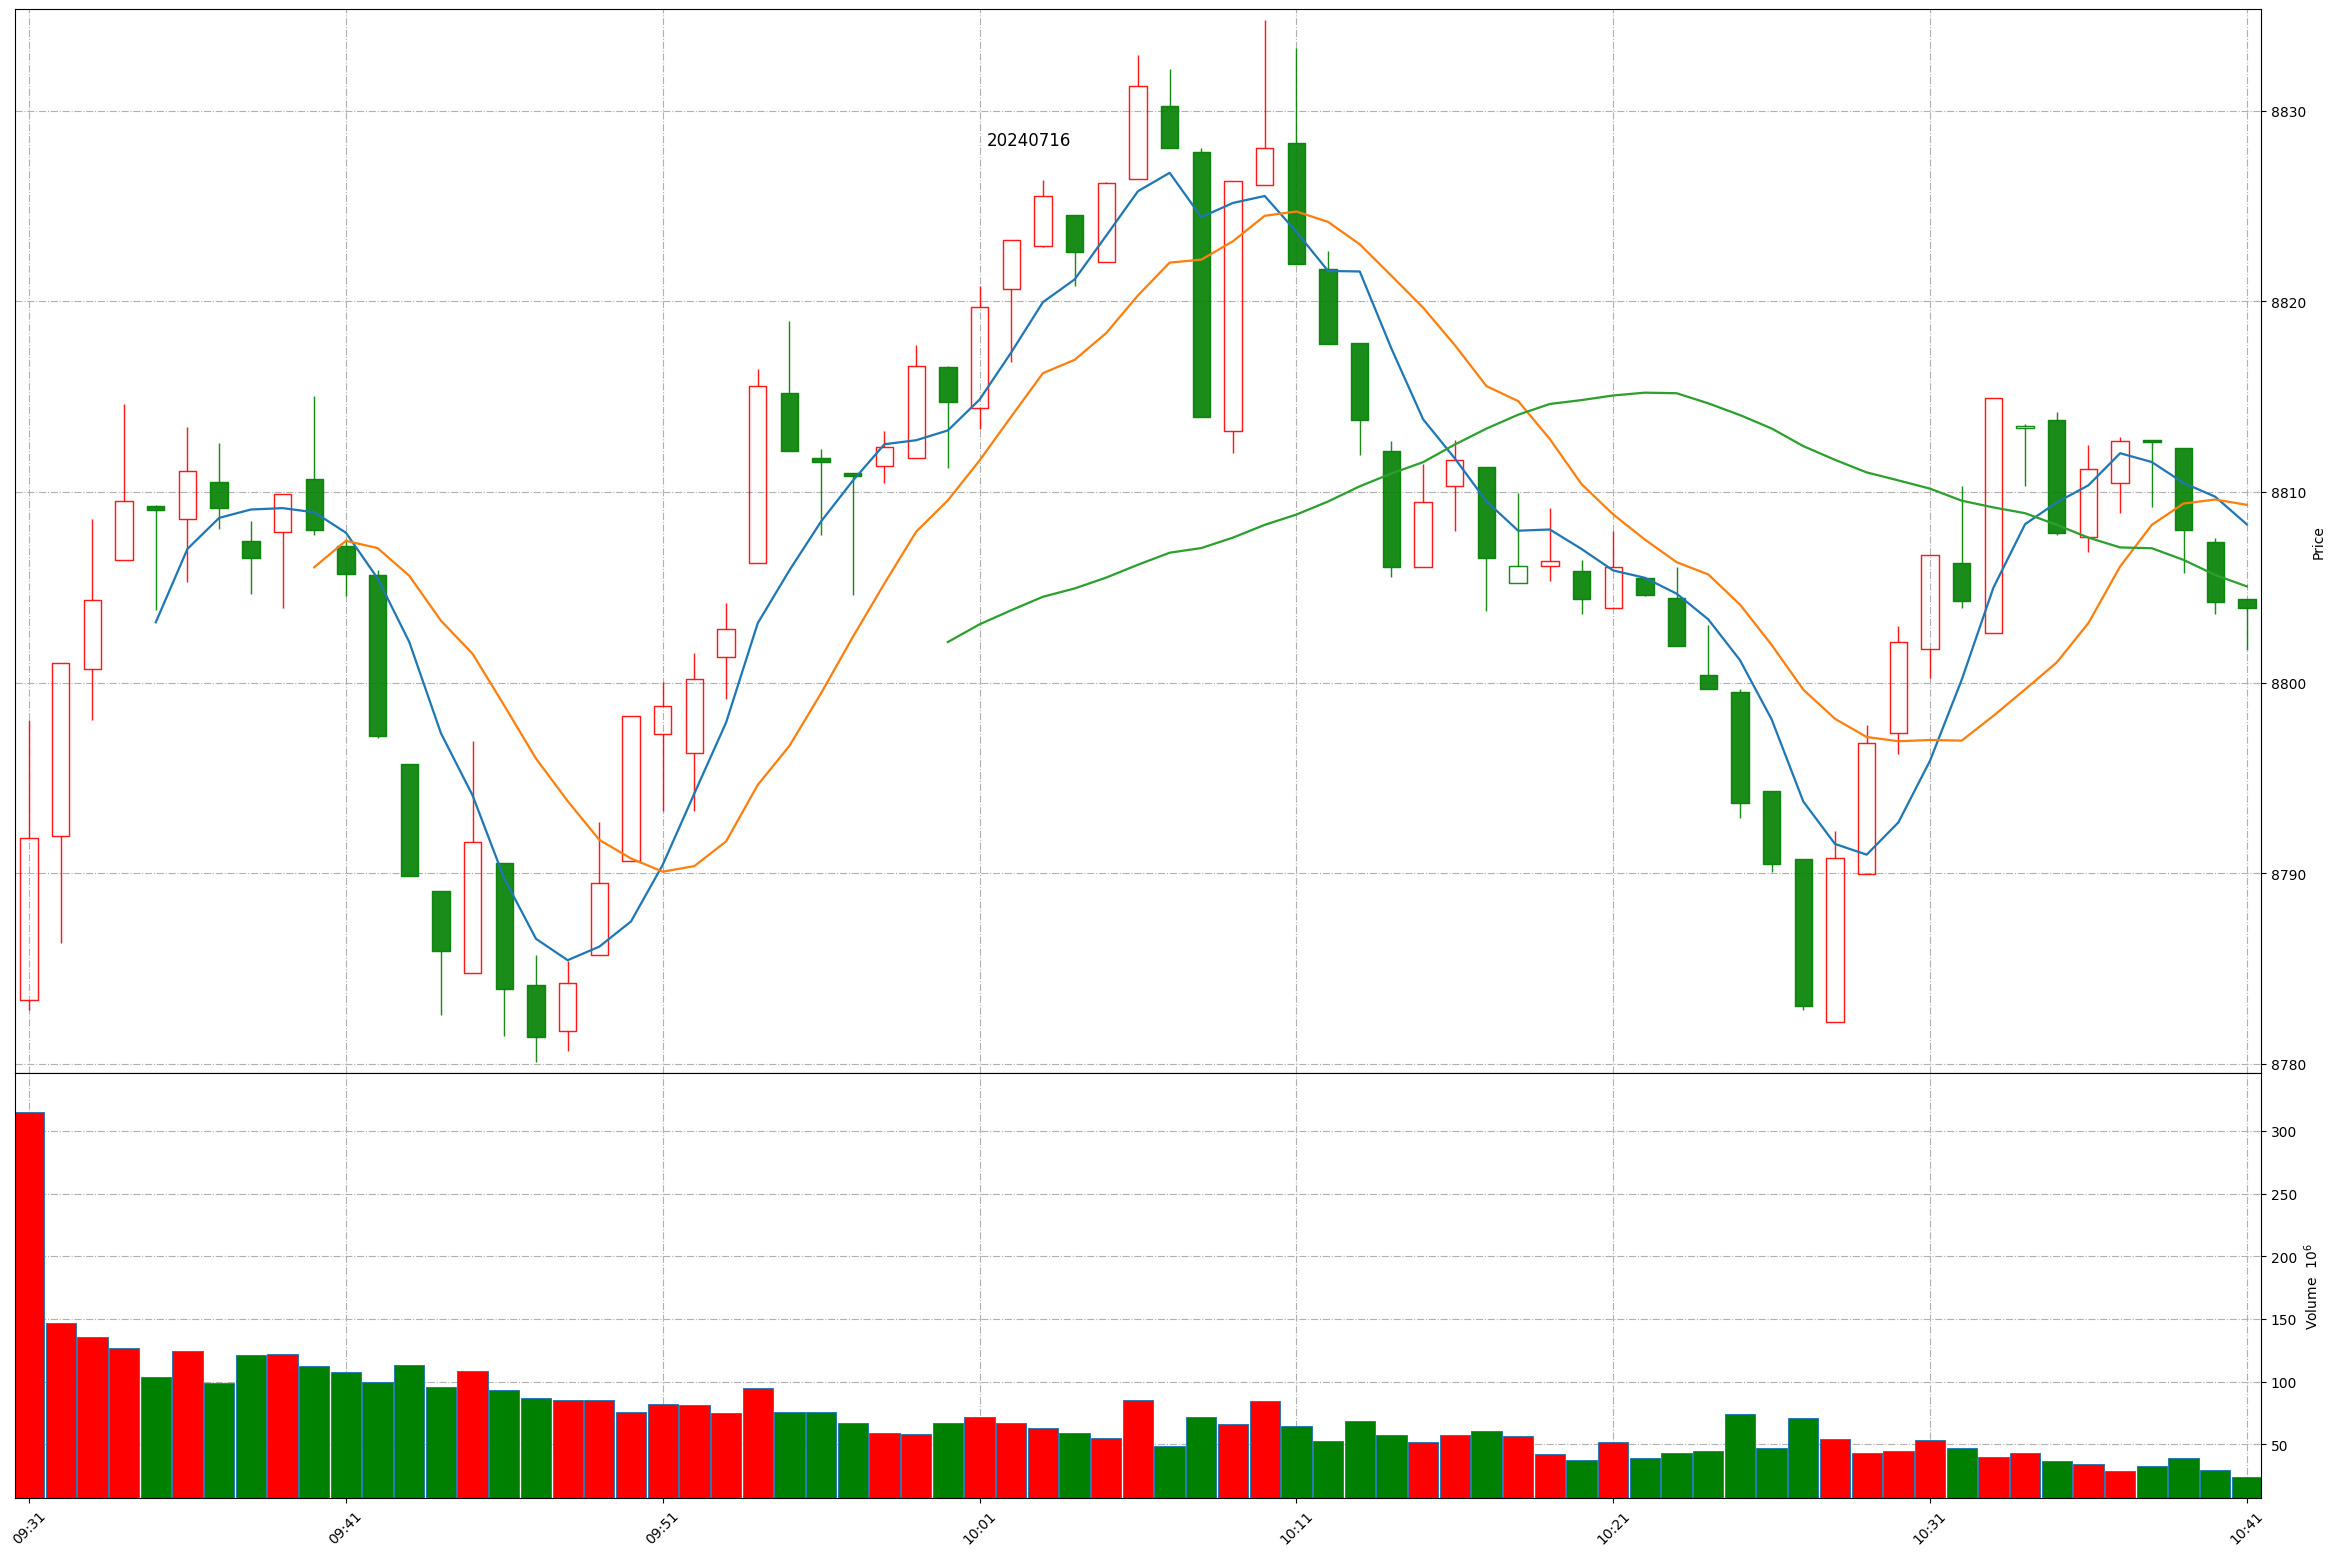
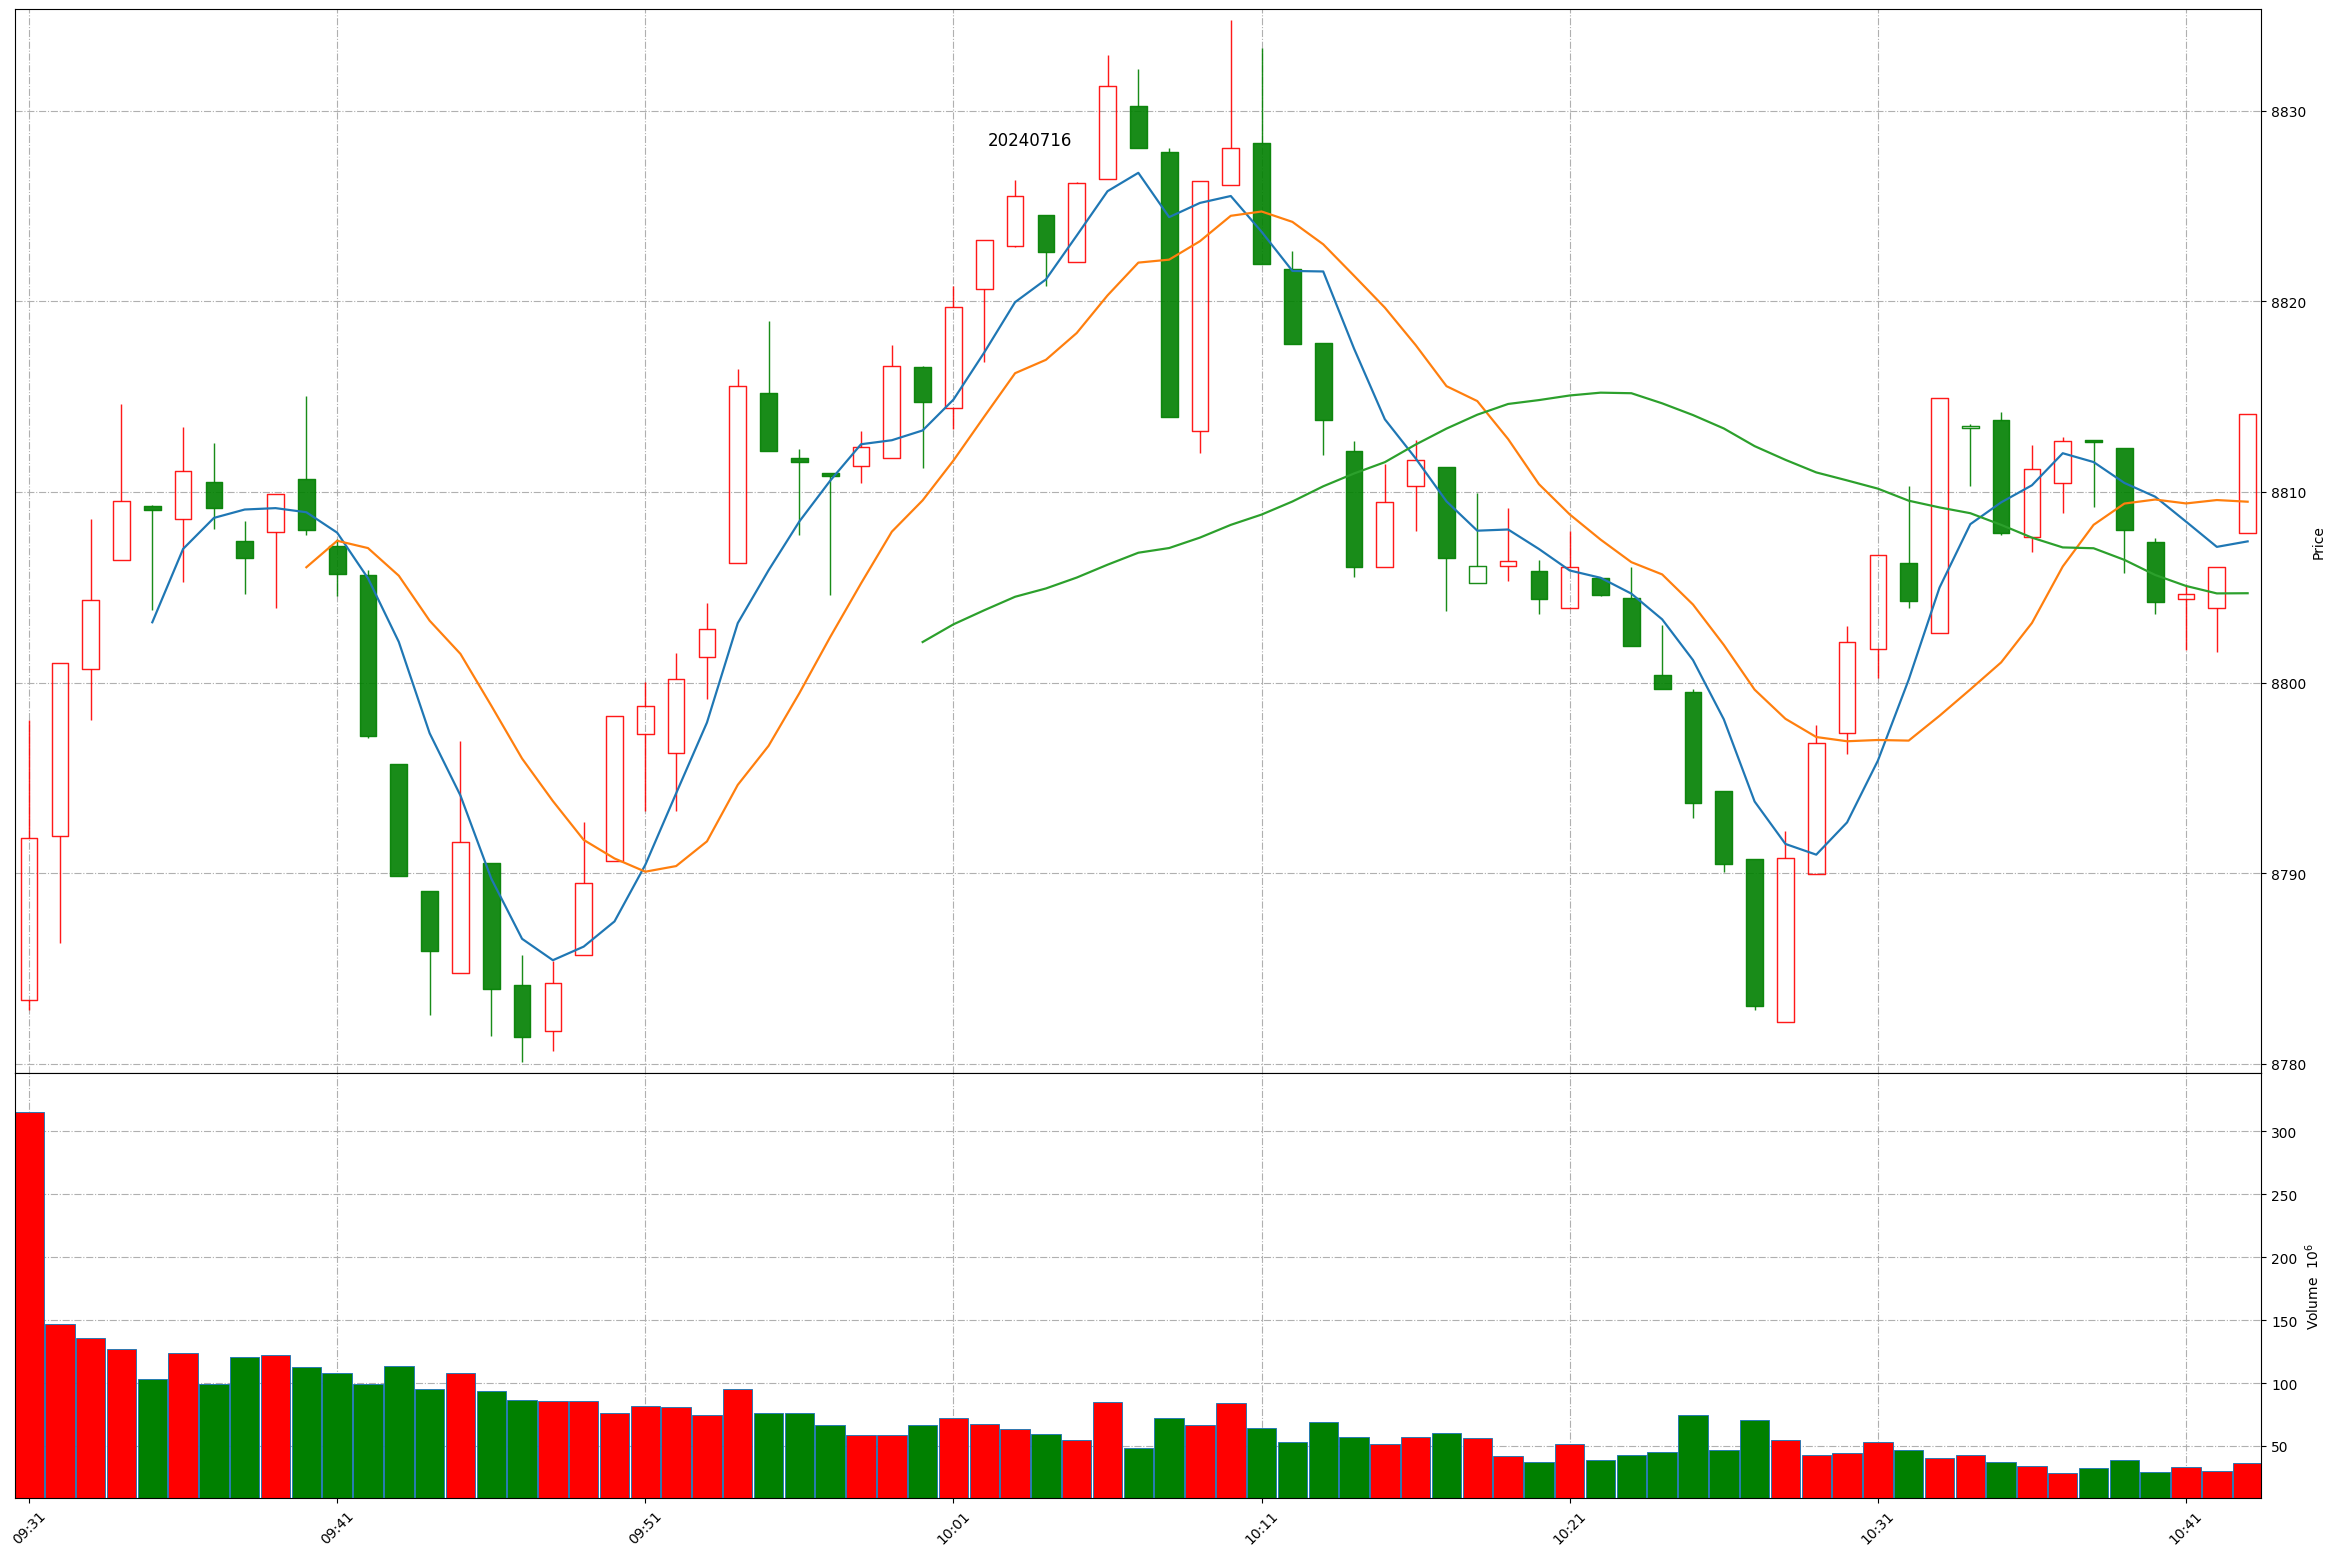
Github action update at 2024-07-16 10:43:08.

diff --git a/README.md b/README.md
@@ -1,11 +1,11 @@
 
 # Daily-A-share-market-quotes 每日 A 股指数（5min 更新）- 20240716
 
-### 上证指数 20240716 10:40
+### 上证指数 20240716 10:43
 ![](./fig/2024/7/20240716-sh000001.png)
 
-### 深证成指 20240716 10:40
+### 深证成指 20240716 10:43
 ![](./fig/2024/7/20240716-sz399001.png)
 
-### 北证50 20240716 10:40
+### 北证50 20240716 10:43
 ![](./fig/2024/7/20240716-bj899050.png)
